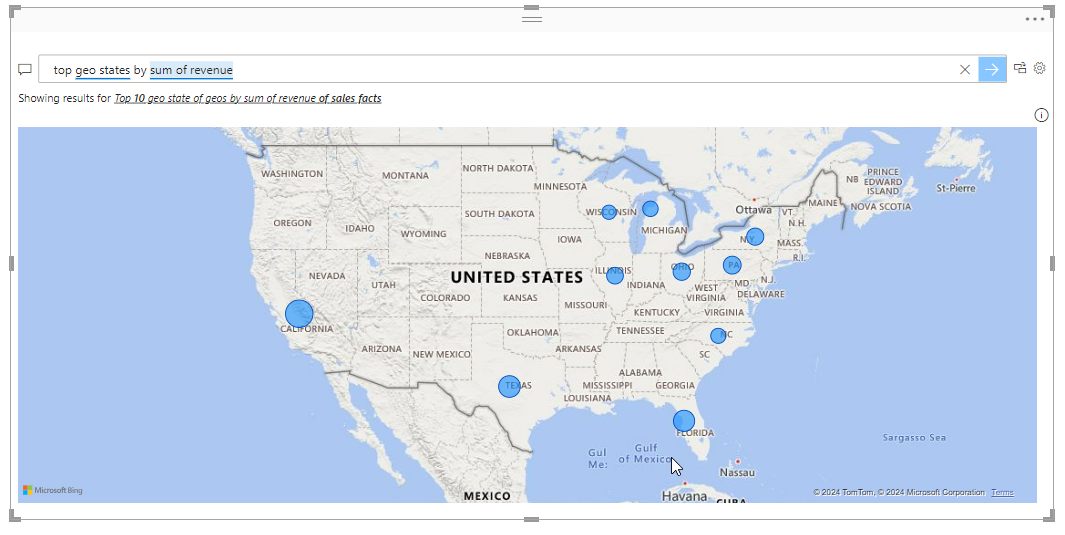
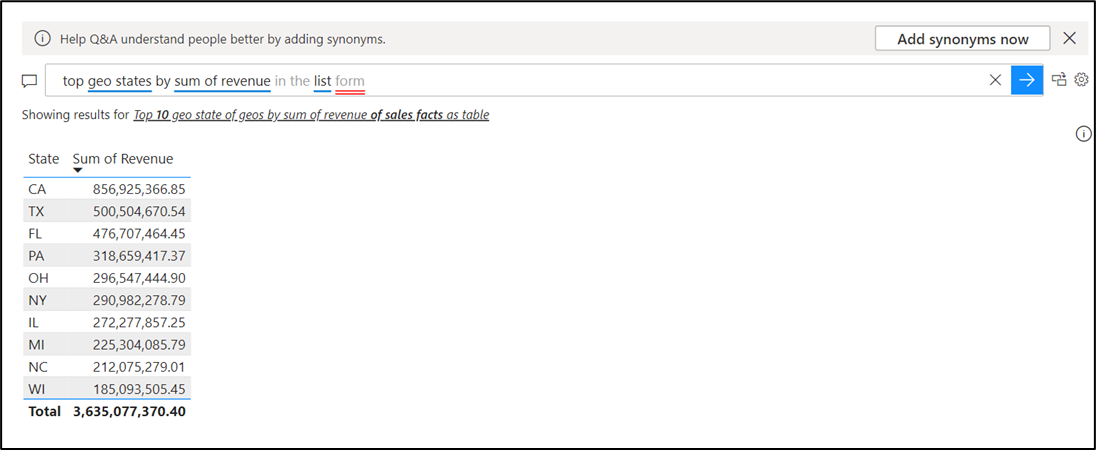
committ

diff --git a/Labs/Lab 10 - Using natural language to enhance Q&A with Copilot for Power BI.md b/Labs/Lab 10 - Using natural language to enhance Q&A with Copilot for Power BI.md
@@ -37,7 +37,7 @@ generated](./media/media10/image3.png)
 
 9.  To customize your visual, select a suggested question or enter text
     in the Q&A question field, where it says *Ask a question about your
-    data –* Enter - **top geo states by sum of revenue**.
+    data –* Enter - **top geo states by sum of revenue in the list form**.
 
 Power BI determines the appropriate visual type based on the selected
 suggestion or entered text. In our example, Power BI determines that a
@@ -45,14 +45,6 @@ map visual is best suited to display the data.
 
 ![](./media/media10/image5.png)
 
-10. You can also instruct Power BI to use a specific visual type by
-    adding the type to the text you enter in the **Q&A question field**.
-    For example, the data in our example isn't meaningful when presented
-    on a scatter chart, but it's helpful when shown as a filled map.
-
-11. Enter - **top geo states by sum of revenue** **filled map**
-
-![](./media/media10/image6.png)
 
 ### Task 2 - Create a Q&A visual with a natural language query
 
